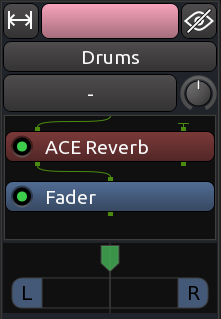
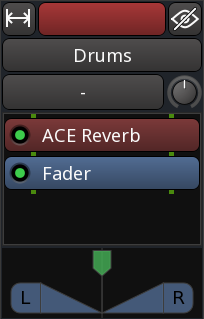
Mono bus -> Stereo bus

diff --git a/content/mixing-sessions/using-sends/index.en.md b/content/mixing-sessions/using-sends/index.en.md
@@ -43,7 +43,7 @@ appropriately, and add a plugin in the pre-fader region (right-click just
 above the fader's blue rectangle in the processor box), as discussed in the
 previous chapter, _Using Plugins_.
 
-In this example, we have created a mono bus called _Drums_, and added the
+In this example, we have created a stereo bus called _Drums_, and added the
 _ACE Reverb_ plugin to the bus.
 
 ![sends1](en/ardour7-ace-reverb-in-mixer-strip.png?height=200)
